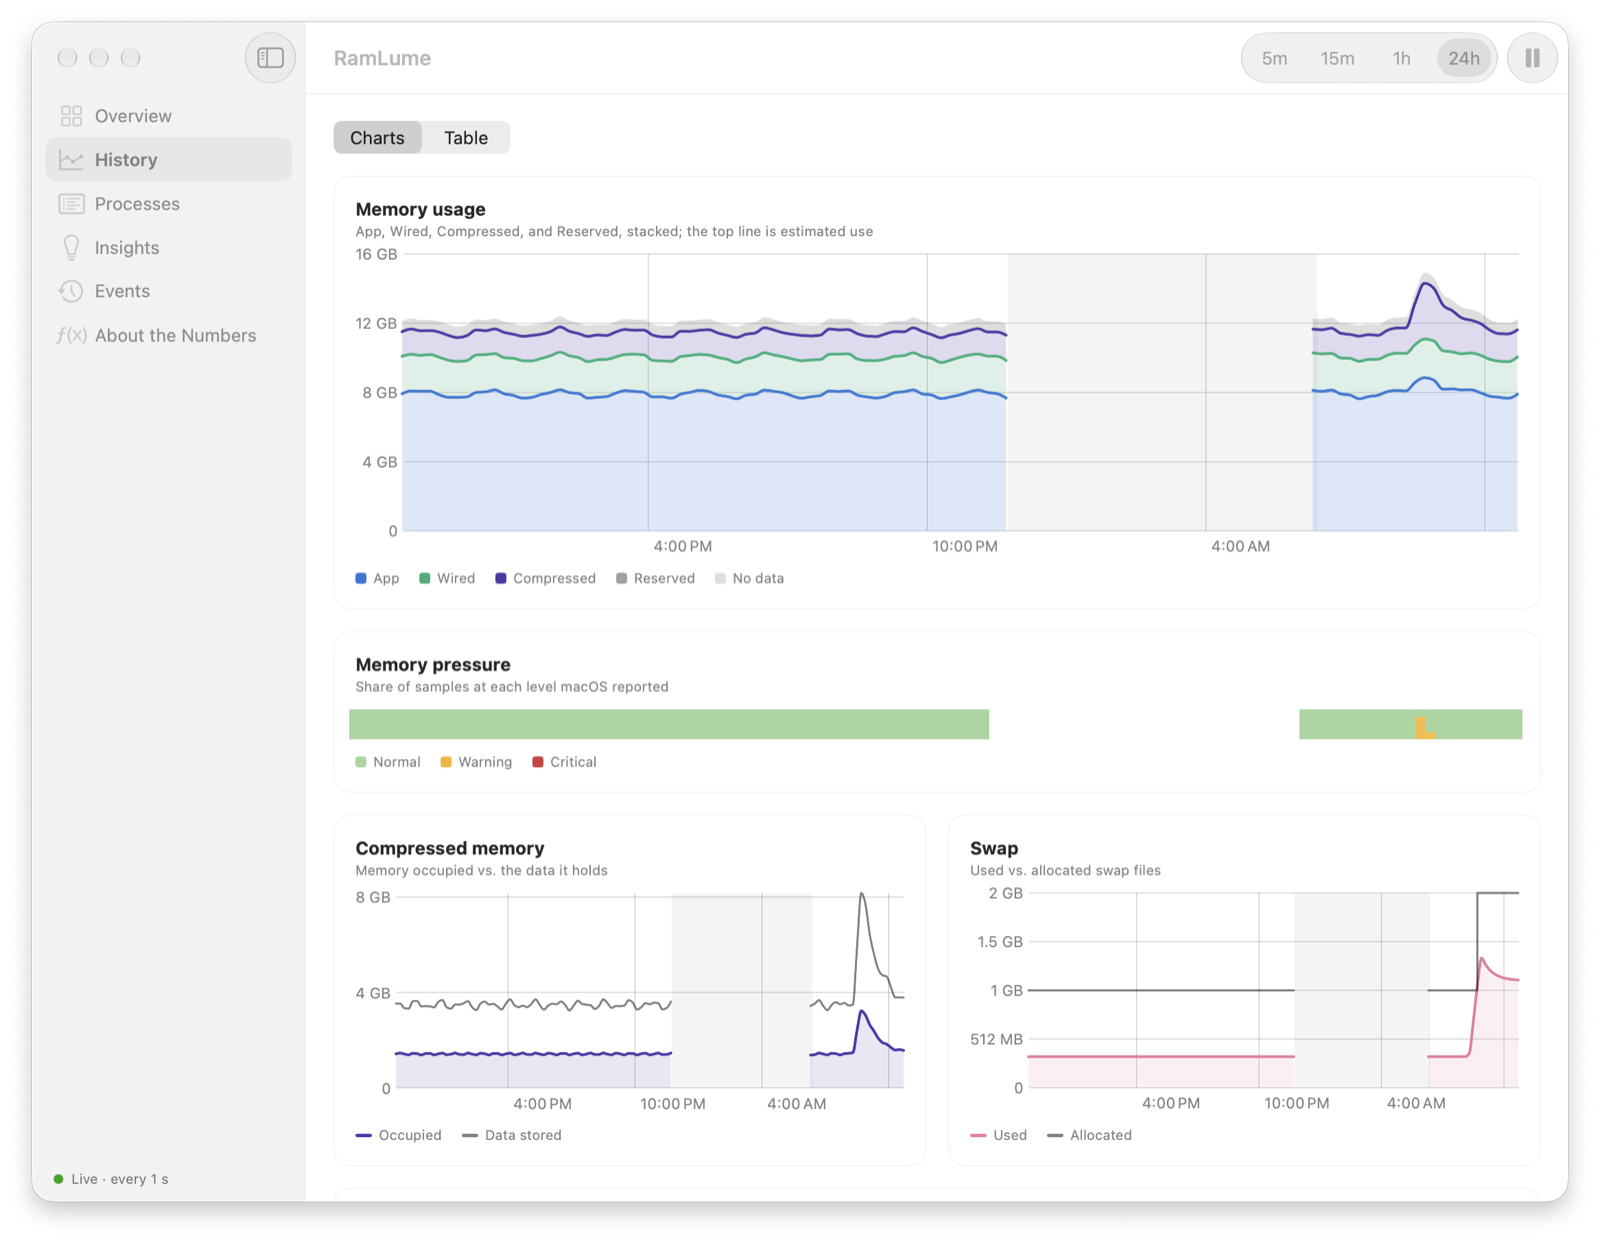
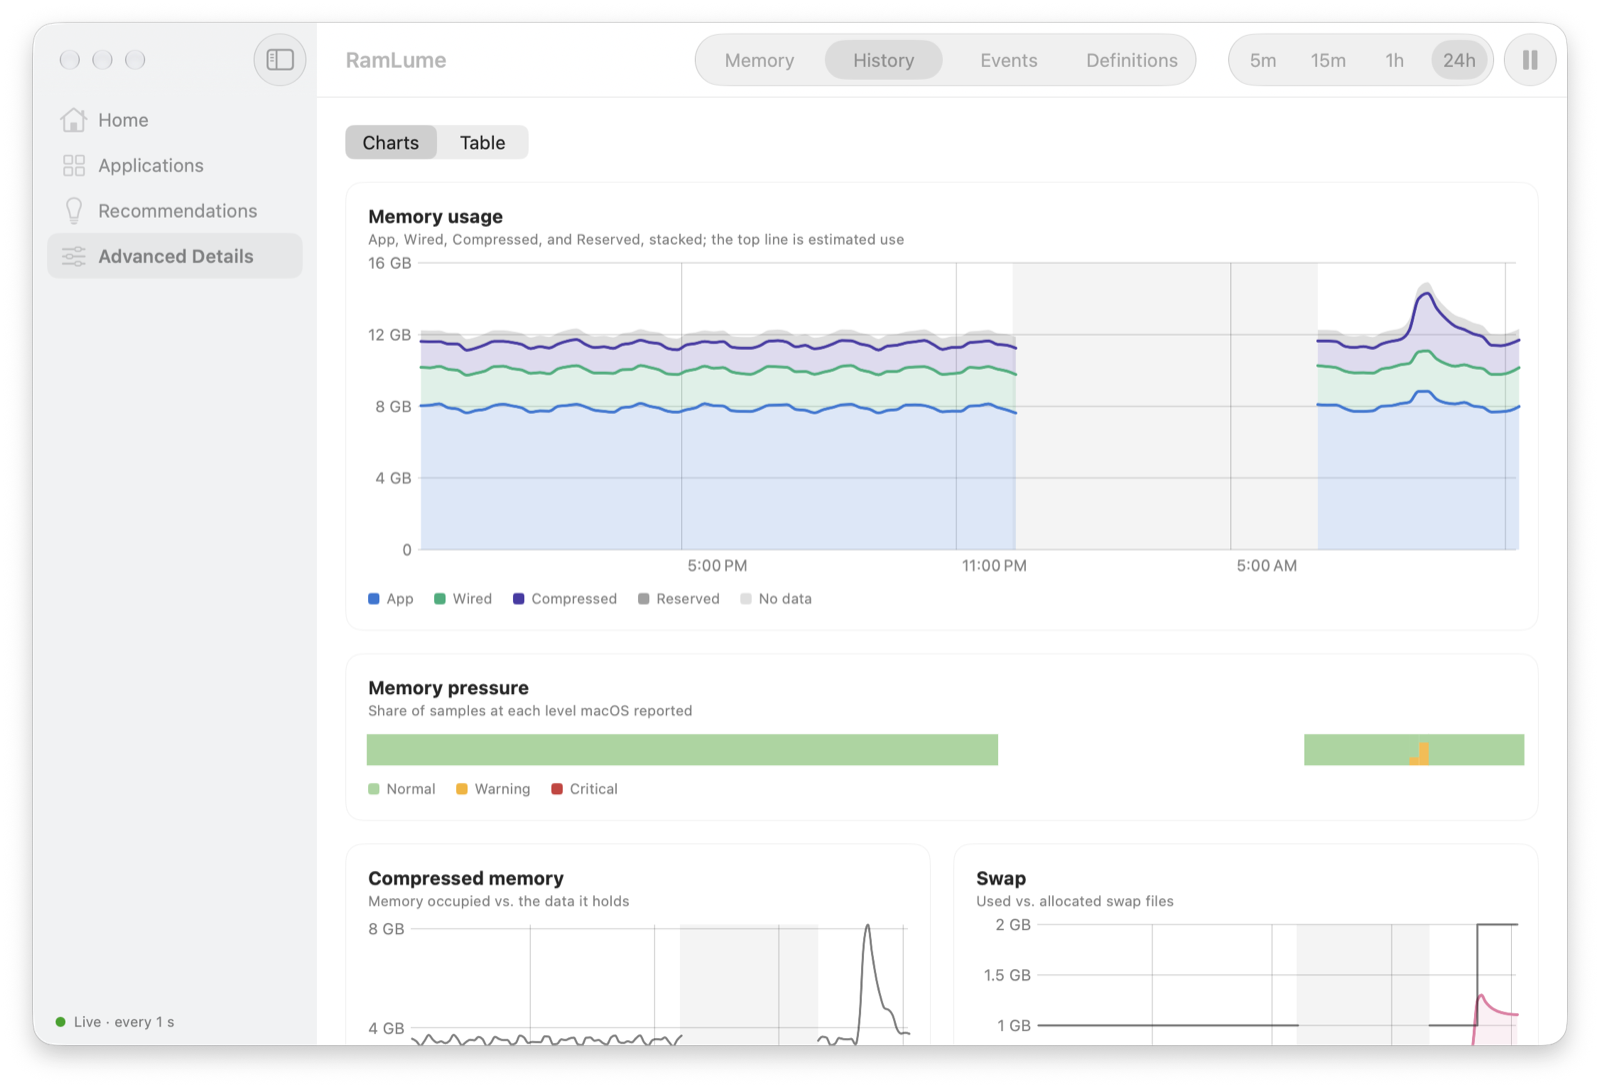
Update the README screenshots for the new interface
New light and dark screenshots of Home (also the README's main image),
the menu bar panel, Recommendations, Applications, and Advanced
Details › History, taken with demo data. The demo data now includes a
Brave Browser large enough for an optional browser tip, and Debug
builds accept --advanced-page to open an Advanced Details page. The
old Overview, Insights, and Processes screenshots are removed.

diff --git a/RamLume/Debug/DemoData.swift b/RamLume/Debug/DemoData.swift
@@ -245,6 +245,12 @@ enum DemoData {
             DemoProcess(pid: 1_240, name: "SourceKitService", path: "/Applications/Xcode.app/Contents/Developer/Toolchains/XcodeDefault.xctoolchain/usr/lib/sourcekitd.framework/Versions/A/XPCServices/SourceKitService.xpc/Contents/MacOS/SourceKitService", megabytes: 690),
             DemoProcess(pid: 1_251, name: "XCBBuildService", path: "/Applications/Xcode.app/Contents/SharedFrameworks/XCBuild.framework/Versions/A/PlugIns/XCBBuildService.bundle/Contents/MacOS/XCBBuildService", megabytes: 245),
             DemoProcess(pid: 641, name: "Safari", path: "/Applications/Safari.app/Contents/MacOS/Safari", megabytes: 385),
+            // A browser large enough for a (healthy-Mac, optional) browser tip in the screenshots.
+            DemoProcess(pid: 1_310, name: "Brave Browser", path: "/Applications/Brave Browser.app/Contents/MacOS/Brave Browser", megabytes: 420),
+            DemoProcess(pid: 1_311, name: "Brave Browser Helper (Renderer)", path: "/Applications/Brave Browser.app/Contents/Frameworks/Brave Browser Framework.framework/Versions/Current/Helpers/Brave Browser Helper (Renderer).app/Contents/MacOS/Brave Browser Helper (Renderer)", megabytes: 650),
+            DemoProcess(pid: 1_312, name: "Brave Browser Helper (Renderer)", path: "/Applications/Brave Browser.app/Contents/Frameworks/Brave Browser Framework.framework/Versions/Current/Helpers/Brave Browser Helper (Renderer).app/Contents/MacOS/Brave Browser Helper (Renderer)", megabytes: 380),
+            DemoProcess(pid: 1_313, name: "Brave Browser Helper (Renderer)", path: "/Applications/Brave Browser.app/Contents/Frameworks/Brave Browser Framework.framework/Versions/Current/Helpers/Brave Browser Helper (Renderer).app/Contents/MacOS/Brave Browser Helper (Renderer)", megabytes: 240),
+            DemoProcess(pid: 1_314, name: "Brave Browser Helper (GPU)", path: "/Applications/Brave Browser.app/Contents/Frameworks/Brave Browser Framework.framework/Versions/Current/Helpers/Brave Browser Helper (GPU).app/Contents/MacOS/Brave Browser Helper (GPU)", megabytes: 310),
             DemoProcess(pid: 733, name: "Photos", path: "/System/Applications/Photos.app/Contents/MacOS/Photos", megabytes: 455),
             DemoProcess(pid: 702, name: "Mail", path: "/System/Applications/Mail.app/Contents/MacOS/Mail", megabytes: 372),
             DemoProcess(pid: 715, name: "Music", path: "/System/Applications/Music.app/Contents/MacOS/Music", megabytes: 268),
@@ -317,6 +323,7 @@ enum DemoData {
     private static let bundleMetadata: [String: BundleMetadata] = [
         "/Applications/Xcode.app": BundleMetadata(displayName: "Xcode", bundleIdentifier: "com.apple.dt.Xcode"),
         "/Applications/Safari.app": BundleMetadata(displayName: "Safari", bundleIdentifier: "com.apple.Safari"),
+        "/Applications/Brave Browser.app": BundleMetadata(displayName: "Brave Browser", bundleIdentifier: "com.brave.Browser"),
         "/Applications/RamLume.app": BundleMetadata(displayName: "RamLume", bundleIdentifier: nil),
         "/System/Applications/Photos.app": BundleMetadata(displayName: "Photos", bundleIdentifier: "com.apple.Photos"),
         "/System/Applications/Mail.app": BundleMetadata(displayName: "Mail", bundleIdentifier: "com.apple.mail"),

diff --git a/RamLume/App/AppDelegate.swift b/RamLume/App/AppDelegate.swift
@@ -288,6 +288,10 @@ final class AppDelegate: NSObject, NSApplicationDelegate {
             return true
         }
         if let raw = value(after: "--dashboard") {
+            // `--advanced-page <page>`: which Advanced Details page to show (for screenshots).
+            if let page = value(after: "--advanced-page").flatMap(AdvancedPage.init(rawValue:)) {
+                model.advancedPage = page
+            }
             model.openDashboard(DashboardSection(rawValue: raw) ?? .home)
             // `--auto-close <seconds>`: close the dashboard again, to check that its memory is released.
             if let delay = value(after: "--auto-close").flatMap({ Double($0) }) {

diff --git a/README.md b/README.md
@@ -13,8 +13,8 @@ macOS kernel, never guesses, and runs entirely on your Mac.
 > first launch. See [Installation](#installation).
 
 <picture>
-  <source media="(prefers-color-scheme: dark)" srcset="docs/images/overview-dark.png">
-  <img alt="The RamLume dashboard: memory in use, a health assessment, and a memory usage chart" src="docs/images/overview-light.png">
+  <source media="(prefers-color-scheme: dark)" srcset="docs/images/home-dark.png">
+  <img alt="RamLume's Home page: the health status in one sentence, memory in use over 24 hours with a night's sleep shown as a gap, the largest apps, and the current recommendation" src="docs/images/home-light.png">
 </picture>
 
 <sub>Screenshots show example data.</sub>
@@ -60,21 +60,18 @@ attention. It never sells you a "RAM cleaner".
 
 ## Screenshots
 
-<!-- These show the dashboard before the simplified navigation (Home, Applications,
-Recommendations, Advanced Details); they need retaking. -->
-
 | Menu bar panel | History |
 |---|---|
-| <picture><source media="(prefers-color-scheme: dark)" srcset="docs/images/panel-dark.png"><img alt="The menu bar panel" src="docs/images/panel-light.png" width="300"></picture> | <picture><source media="(prefers-color-scheme: dark)" srcset="docs/images/history-dark.png"><img alt="24 hours of history with a night's sleep shown as a gap and a short period of memory pressure" src="docs/images/history-light.png"></picture> |
+| <picture><source media="(prefers-color-scheme: dark)" srcset="docs/images/panel-dark.png"><img alt="The menu bar panel: the status in one sentence, memory in use, the three largest apps, and one recommendation" src="docs/images/panel-light.png" width="300"></picture> | <picture><source media="(prefers-color-scheme: dark)" srcset="docs/images/history-dark.png"><img alt="Advanced Details, History: stacked memory usage, memory pressure, compressed memory, and swap over 24 hours, with a night's sleep shown as a gap" src="docs/images/history-light.png"></picture> |
 
 <picture>
-  <source media="(prefers-color-scheme: dark)" srcset="docs/images/insights-dark.png">
-  <img alt="Insights: plain-English explanations with the evidence behind them" src="docs/images/insights-light.png">
+  <source media="(prefers-color-scheme: dark)" srcset="docs/images/recommendations-dark.png">
+  <img alt="Recommendations: plain-English tips with the reason behind each one, here an optional tip to turn on Memory Saver in Brave" src="docs/images/recommendations-light.png">
 </picture>
 
 <picture>
-  <source media="(prefers-color-scheme: dark)" srcset="docs/images/processes-dark.png">
-  <img alt="Processes grouped by app, with restricted system processes labelled honestly" src="docs/images/processes-light.png">
+  <source media="(prefers-color-scheme: dark)" srcset="docs/images/applications-dark.png">
+  <img alt="Applications, each grouped with its helper processes, with search and sorting" src="docs/images/applications-light.png">
 </picture>
 
 ## Requirements

diff --git a/docs/building.md b/docs/building.md
@@ -125,6 +125,7 @@ They're compiled out of Release builds (`make-release.sh` checks this).
 | Argument | Effect |
 |---|---|
 | `--dashboard <section>` | Opens the dashboard at `home`, `applications`, `recommendations`, or `advanced`. |
+| `--advanced-page <page>` | With `--dashboard advanced`: opens `memory`, `history`, `events`, or `definitions`. |
 | `--settings <tab>` | Opens Settings at `general`, `monitoring`, `notifications`, `history`, or `about`. |
 | `--panel` | Opens the menu bar panel. |
 | `--panel-window` | Shows the panel's content in a title-less window, which renders even when the menu bar isn't on screen (for example in a full-screen Space). |
